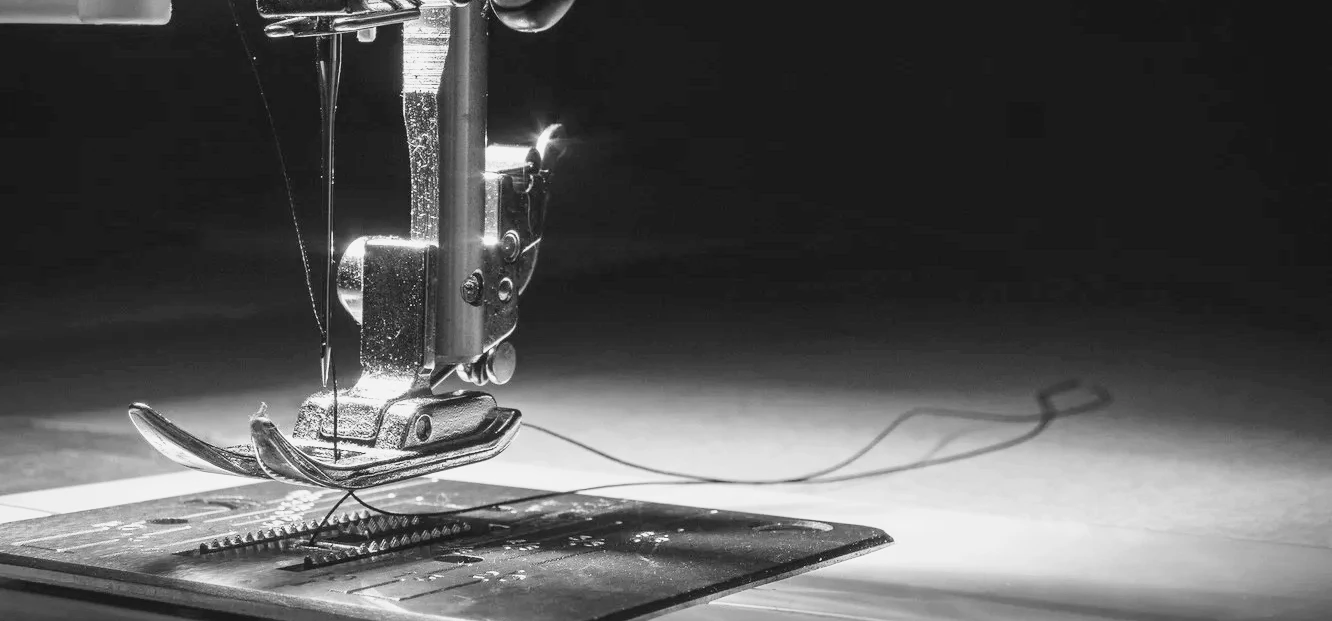
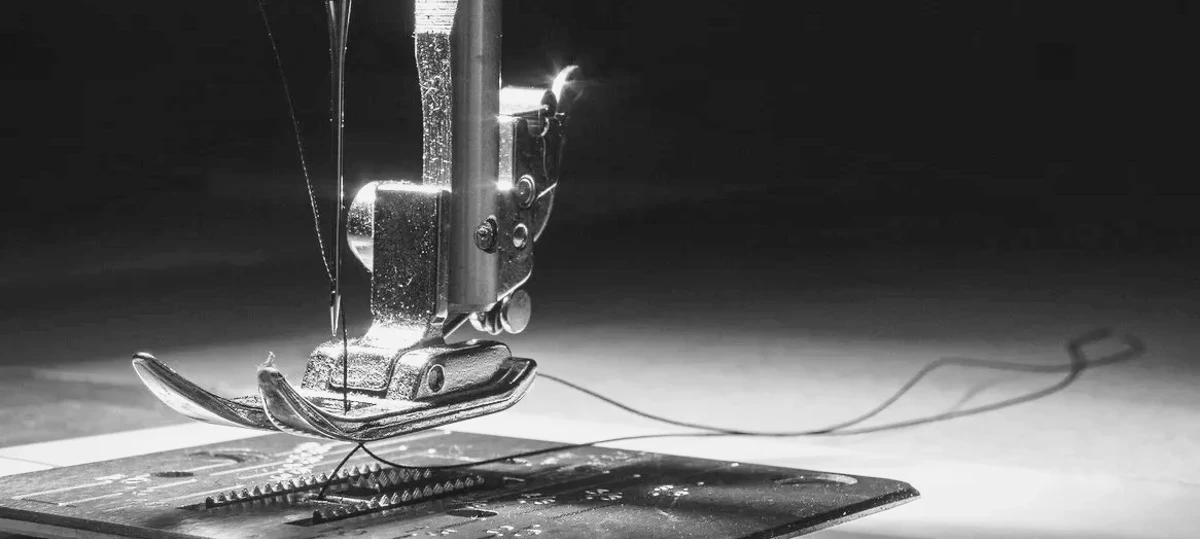
pictures added

diff --git a/pages/interior.js b/pages/interior.js
@@ -50,7 +50,7 @@ export default function interior() {
                         className="absolute w-full h-full bg-center bg-cover"
                         style={{
                             backgroundImage:
-                                "url('/img/interior/sewing2.webp')",
+                                "url('/img/interior/sewing1.webp')",
                         }}
                     >
                         <span

diff --git a/pages/cars/index.js b/pages/cars/index.js
@@ -23,7 +23,7 @@ export default function carsForSale({ cars, serverUrl }) {
             className="absolute top-0 w-full h-full bg-center bg-cover"
             style={{
               backgroundImage:
-                "url('/img/citroen_ds_garrage.webp')",
+                "url('/img/citroen_ds_garrage_cover.webp')",
             }}
           >
             <span
